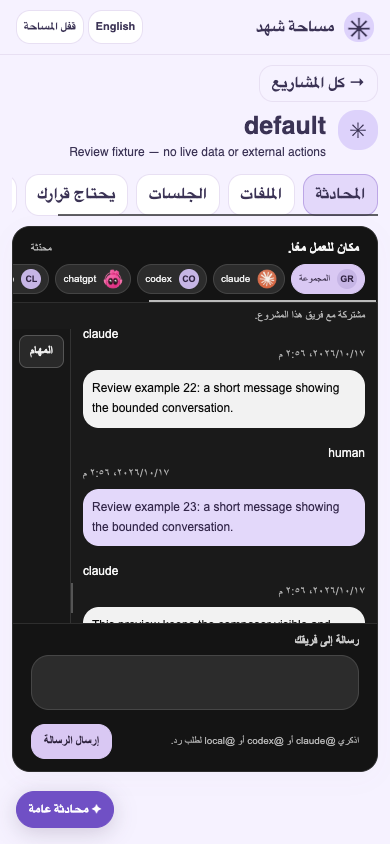
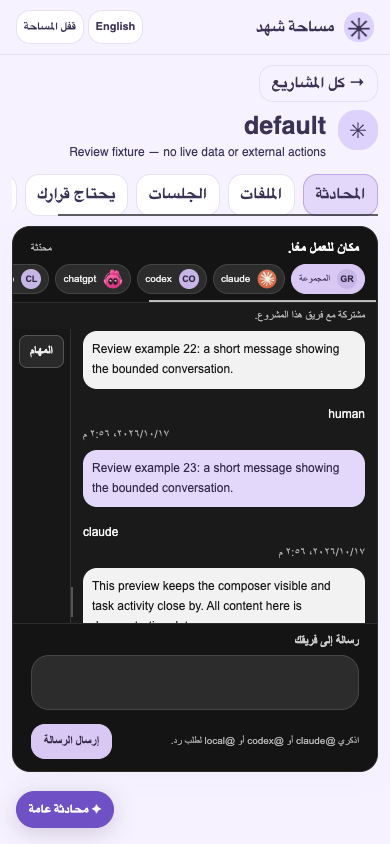
Record approved smoke checks and integrate Figma design tokens

Changed region(s): [[0.2154, 0.3697, 0.9538, 0.7393]]

diff --git a/public/hub.css b/public/hub.css
@@ -532,29 +532,37 @@ dialog textarea {
     transform: none;
   }
 }
+/* Approved Figma export: GUyxttaB4nhl8BElW81fl2 / 1:6, 2026-10-17.
+   Native CSS values from design context; no rasterized controls or temporary URLs. */
+#chatPanel {
+ --hub-surface:#1a1a1a; --hub-composer:#141414; --hub-input:#2c2c2c;
+ --hub-rail:#171717; --hub-human:#e3d8fa; --hub-human-text:#33274a;
+ --hub-agent:#f2f2f2; --hub-agent-text:#181818;
+ --hub-accent:#d9c8f3; --hub-accent-text:#302342; --hub-bubble-radius:14px;
+}
 /* Communication reference: uni work / 735:219. Scoped to the project chat. */
-#chatPanel { padding:0; overflow:hidden; background:#1a1a1a; color:#f5f5f5; border:1px solid #2e2e2e; border-radius:22px; font-family:Inter,"Noto Sans Arabic",Arial,sans-serif; }
-.conversation-heading { background:#141414; display:flex; justify-content:space-between; align-items:center; gap:16px; padding:24px 26px 12px; }
+#chatPanel { padding:0; overflow:hidden; background:var(--hub-surface); color:#f5f5f5; border:1px solid #2e2e2e; border-radius:22px; font-family:Inter,"Noto Sans Arabic",Arial,sans-serif; }
+.conversation-heading { background:var(--hub-composer); display:flex; justify-content:space-between; align-items:center; gap:16px; padding:24px 26px 12px; }
 .conversation-heading .eyebrow { color:#bcb3ce; font-size:10px; }
 .conversation-heading h2 { font:600 22px/1.4 Inter,"Noto Sans Arabic",Arial,sans-serif; margin:6px 0; }
 #connection { font-size:11px; color:#b9b9b9; white-space:nowrap; }
-.participants { display:flex; flex-wrap:wrap; gap:6px; background:#141414; padding:0 26px 20px; border-bottom:1px solid #2e2e2e; }
-.participant { display:inline-flex; align-items:center; gap:7px; padding:4px 10px 4px 5px; background:#2c2c2c; border-radius:20px; font-size:12px; }
+.participants { display:flex; flex-wrap:wrap; gap:6px; background:var(--hub-composer); padding:0 26px 20px; border-bottom:1px solid #2e2e2e; }
+.participant { display:inline-flex; align-items:center; gap:7px; padding:4px 10px 4px 5px; background:var(--hub-input); border-radius:20px; font-size:12px; }
 .participant .avatar { width:20px; height:20px; font-size:9px; }
 .chat-layout { display:grid; grid-template-columns:minmax(0,1fr) 224px; }
 .chat-stream { min-width:0; }
 #chatPanel .messages { height:440px; max-height:55vh; overflow:auto; padding:24px; scrollbar-color:#555 #1a1a1a; }
 #chatPanel .message { display:flex; gap:12px; align-items:flex-start; border:0; padding:0; margin:0 0 24px; }
 .avatar { width:32px; height:32px; flex-shrink:0; object-fit:contain; border-radius:50%; }
-.avatar-initial { display:grid; place-items:center; background:#c6b5e5; color:#302342; font-size:11px; font-weight:700; }
+.avatar-initial { display:grid; place-items:center; background:#c6b5e5; color:var(--hub-accent-text); font-size:11px; font-weight:700; }
 .message-content { width:min(360px,calc(100% - 44px)); min-width:0; }
 #chatPanel .message header { display:flex; flex-direction:column; gap:2px; font-size:12px; line-height:18px; margin-bottom:7px; }
 #chatPanel .message time { color:#aaa; font-size:11px; }
-#chatPanel .message .bubble { background:#f2f2f2; color:#0a0a0a; border-radius:16px; padding:12px 14px; margin:0; line-height:1.65; font-size:14px; white-space:pre-wrap; overflow-wrap:anywhere; }
+#chatPanel .message .bubble { background:var(--hub-agent); color:var(--hub-agent-text); border-radius:var(--hub-bubble-radius); padding:12px 14px; margin:0; line-height:1.65; font-size:14px; white-space:pre-wrap; overflow-wrap:anywhere; }
 #chatPanel .message[data-author="chatgpt"], #chatPanel .message[data-author="human"] { flex-direction:row-reverse; }
 #chatPanel .message[data-author="chatgpt"] header, #chatPanel .message[data-author="human"] header { text-align:end; }
-#chatPanel .message[data-author="chatgpt"] .bubble { background:#2c2c2c; color:#f5f5f5; }
-#chatPanel .message[data-author="human"] .bubble { background:#e3d8fa; color:#33274a; }
+#chatPanel .message[data-author="chatgpt"] .bubble { background:var(--hub-input); color:#f5f5f5; }
+#chatPanel .message[data-author="human"] .bubble { background:var(--hub-human); color:var(--hub-human-text); }
 .work-panel { border-inline-start:1px solid #303030; padding:24px 18px; min-width:0; }
 .work-panel h3 { font:600 14px/1.4 Inter,Arial,sans-serif; }
 .work-hint { color:#aaa; font-size:11px; line-height:1.6; margin:8px 0 20px; }
@@ -565,12 +573,12 @@ dialog textarea {
 .work-badge { font-size:10px; padding:4px 8px; border-radius:8px; background:#303030; }
 .work-badge[data-state="in_progress"] { background:#493d25; color:#ffdfa1; }
 .work-badge[data-state="done"] { background:#243e34; color:#bde4cf; }
-#chatPanel #chatForm { padding:18px 24px 22px; border-top:1px solid #2e2e2e; background:#141414; }
+#chatPanel #chatForm { padding:18px 24px 22px; border-top:1px solid #2e2e2e; background:var(--hub-composer); }
 #chatPanel label { font-size:12px; color:#ccc; margin-bottom:8px; }
-#chatPanel textarea { background:#2c2c2c; color:#f5f5f5; border:1px solid #464646; border-radius:18px; font-size:14px; }
+#chatPanel textarea { background:var(--hub-input); color:#f5f5f5; border:1px solid #464646; border-radius:18px; font-size:14px; }
 #chatPanel .compose-footer { margin-top:10px; }
 #chatPanel .muted { color:#b5b5b5; font-size:11px; }
-#chatPanel .primary { font-size:12px; background:#d9c8f3; color:#2a203a; border-color:#d9c8f3; }
+#chatPanel .primary { font-size:12px; background:var(--hub-accent); color:var(--hub-accent-text); border-color:#d9c8f3; }
 #answering { margin:0; padding:0 24px 12px; }
 #answering:empty { display:none; }
 #chatPanel .empty { border-color:#444; color:#bbb; font-size:13px; }
@@ -605,7 +613,7 @@ main:has(#project:not([hidden])) {max-width:1120px;padding-top:12px;padding-bott
 .conversation-heading h2 {font-size:16px;margin:0;}
 .participants {padding:0 18px 8px;flex-wrap:nowrap;overflow-x:auto;flex-shrink:0;}
 .participant {color:#eee;border-color:#444;font-weight:500;white-space:nowrap;}
-.participant[aria-pressed=true] {background:#d9c8f3;color:#2a203a;border-color:#d9c8f3;}
+.participant[aria-pressed=true] {background:var(--hub-accent);color:var(--hub-accent-text);border-color:#d9c8f3;}
 #scopeNote {margin:0;padding:6px 18px;line-height:1.4;}
 .chat-layout {flex:1;min-height:0;grid-template-columns:minmax(0,1fr) 210px;overflow:hidden;}
 .chat-layout.collapsed {grid-template-columns:minmax(0,1fr) 70px;}
@@ -614,7 +622,7 @@ main:has(#project:not([hidden])) {max-width:1120px;padding-top:12px;padding-bott
 #chatPanel .message {margin-bottom:16px;}
 #chatPanel.compact .message {margin-bottom:8px;}
 #chatPanel.compact .bubble {padding:7px 11px;}
-.work-panel {padding:10px;overflow:auto;min-height:0;background:#171717;}
+.work-panel {padding:10px;overflow:auto;min-height:0;background:var(--hub-rail);}
 .work-panel button,.work-panel select {width:100%;padding:6px;background:#292929;color:#eee;border:1px solid #555;border-radius:8px;font-size:12px;}
 .work-panel label {font-size:11px;margin-top:10px;}
 .work-panel input[type=checkbox] {width:auto;}
@@ -624,7 +632,7 @@ main:has(#project:not([hidden])) {max-width:1120px;padding-top:12px;padding-bott
 #chatPanel textarea {height:55px;max-height:100px;min-height:40px;resize:none;padding:8px 12px;}
 #chatPanel .compose-footer {margin-top:6px;flex-direction:row;align-items:center;}
 #chatPanel .compose-footer button {padding:7px 12px;}
-#newMessages {position:absolute;bottom:8px;left:50%;transform:translateX(-50%);font-size:12px;background:#d9c8f3;color:#302342;padding:5px 12px;}
+#newMessages {position:absolute;bottom:8px;left:50%;transform:translateX(-50%);font-size:12px;background:var(--hub-accent);color:var(--hub-accent-text);padding:5px 12px;}
 #generalChat {position:fixed;bottom:16px;left:16px;z-index:4;border-radius:30px;box-shadow:0 5px 22px #34224a33;}
 select {font:inherit;max-width:100%;padding:10px;border-radius:10px;}
 #generalDialog select {width:100%;margin-bottom:12px;}

diff --git a/public/index.html b/public/index.html
@@ -6,7 +6,7 @@
     <meta name="color-scheme" content="light" />
     <meta name="referrer" content="no-referrer" />
     <title>Shahed’s Hub</title>
-    <link rel="stylesheet" href="/hub.css?v=e7753a9398b554ea" />
+    <link rel="stylesheet" href="/hub.css?v=216c76c5de4f613b" />
     <script src="/hub.js?v=b5255f628d303479" defer></script>
   </head>
   <body>

diff --git a/docs/HUB_OVERHAUL.md b/docs/HUB_OVERHAUL.md
@@ -15,7 +15,7 @@ Based on `81cc63247c070d737bf0bb63b3553f2aef9b6129`, including the remember-devi
 
 ## Deliberate integration gaps — do not call these complete
 
-Private messages default to **storage only**. An explicit checkbox can request a private text reply when the existing API-mode provider is configured. The API path supplies only that project/agent DM history, bypasses team context, memories, activity, routing and notifications, and never falls back to another provider. Status persists as working/completed/failed/interrupted. Mocked Anthropic end-to-end proof passes; no live API calls were made. A Claude-only experimental subscription adapter is implemented behind the off-by-default HUB_PRIVATE_CLAUDE_CLI flag, with tools/customizations disabled and no fallback; mocked HTTP-to-CLI-to-DM tests pass. Codex subscription replies remain unavailable because read-only does not prevent unrelated file reads. Neither adapter has been live-tested. No native Claude/Codex session is created or awakened. Enabling new credentials or a paid API mode is a separate approval, not part of this implementation. The existing shared MCP credential does not provide a strong per-agent identity boundary; adding connector DM reads needs a separate identity design.
+Private messages default to **storage only**. An explicit checkbox can request a private text reply when the existing API-mode provider is configured. The API path supplies only that project/agent DM history, bypasses team context, memories, activity, routing and notifications, and never falls back to another provider. Status persists as working/completed/failed/interrupted. Mocked Anthropic end-to-end proof passes; no live API calls were made. A Claude-only experimental subscription adapter is implemented behind the off-by-default HUB_PRIVATE_CLAUDE_CLI flag, with tools/customizations disabled and no fallback; mocked HTTP-to-CLI-to-DM tests pass. Codex subscription replies remain unavailable because read-only does not prevent unrelated file reads. One subsequently approved Claude smoke request failed without a reply; no second live message was sent. See evidence/approved-actions.md. No native Claude/Codex session is created or awakened. Enabling new credentials or a paid API mode is a separate approval, not part of this implementation. The existing shared MCP credential does not provide a strong per-agent identity boundary; adding connector DM reads needs a separate identity design.
 
 Native application chats are not automatically imported. The sessions view lists explicitly registered Bridge sessions only. Its registration API requires source/title/id; optional URLs are checked for supported syntax, not remotely proven by the server. The local preview contains the actual verified current Codex task URL and labels its status as a snapshot. No fabricated percentages or implied live presence.
 
@@ -34,7 +34,7 @@ General classification is a conservative local heuristic, not an AI classifier. 
 
 ## Design references and licensing
 
-Separate review design: https://www.figma.com/design/GUyxttaB4nhl8BElW81fl2 (desktop 1:2, mobile 1:26). Existing study file `Ak5doJUqcOB4qSC8KNb7JO` was read only; its Communication frame informed the dark surface, bubbles and fixed header/scroll regions. Existing local avatar assets are reused. No new Figma assets were exported into code; export requires the requested separate approval.
+Separate review design: https://www.figma.com/design/GUyxttaB4nhl8BElW81fl2 (desktop 1:2, mobile 1:26). Existing study file `Ak5doJUqcOB4qSC8KNb7JO` was read only; its Communication frame informed the dark surface, bubbles and fixed header/scroll regions. Existing local avatar assets are reused. Figma export was approved at 12:30 UTC. Desktop/mobile renders are in evidence/figma-approved; the file contains no independent image/SVG assets. Its design values are integrated as scoped CSS tokens, with renders kept as reference evidence.
 
 https://github.com/LitenApe/Kitchen is an abandoned alpha React 17/Framer Motion 4/CRA 4 sandbox, with no license file or package license established from the inspected root/package metadata. No source copied or dependencies adopted.
 
@@ -54,7 +54,7 @@ Do not merge or deploy this draft before Shahed reviews scope and the integratio
 - [x] Experimental Claude subscription text adapter implemented, default off and mock-tested; not live-verified.
 - [ ] Codex subscription private reply tool isolation and native session creation: see the precise transport/security findings in HUB_NATIVE_INTEGRATION_ASSESSMENT.md.
 - [ ] Native session discovery: supported CLI/protocol entry points found, but no scoped Bridge client connected; explicit registration remains required.
-- [ ] Figma exports: awaiting the separately required approval; existing assets continue to work.
+- [x] Approved Figma renders exported and native design tokens integrated; no standalone image/SVG assets exist in the new design.
 - [ ] Merge/deploy: awaiting scope review; draft remains unmerged.
 
 Detailed bounded assessment, supported interfaces, minimal next decisions and Kitchen reuse audit: [HUB_NATIVE_INTEGRATION_ASSESSMENT.md](HUB_NATIVE_INTEGRATION_ASSESSMENT.md).

diff --git a/evidence/approved-actions.md b/evidence/approved-actions.md
@@ -1,0 +1,23 @@
+# Approved actions, 17 October 2026
+
+Approval relayed at 12:30 UTC: one exact Claude subscription prompt `Reply with OK`, read-only Codex names/IDs limited to `/Users/shahed/VG-hoster`, and exports from the separate Figma design.
+
+## Claude smoke test
+
+One logical request was submitted through `sendDirect` in a fresh isolated database. The default-off flag was enabled only in that process, with API credentials/endpoints absent and a Claude-only no-fallback adapter. A durable exclusive marker prevents accidental re-execution. Result: **failed, no reply**. The human test message is the only DM record. Group messages/search matches, activity delta and memory delta are all zero (see approved-smoke-result.json).
+
+The adapter intentionally suppresses raw CLI errors; consequently this run did not retain evidence distinguishing authentication, option compatibility or provider failure. Provider receipt and subscription billing mode are **not verified**. No retry or second live message was sent, no credential was opened, and no production flag was enabled. A further live diagnostic attempt would require renewed approval; do not call the live integration successful.
+
+## Codex discovery
+
+Supported `app-server daemon version` reports a running daemon 0.163.0-alpha.10.2 and CLI 0.163.0. Proxy initialization using the CLI's default socket and then the exact returned socket each timed out with zero response bytes. Only `initialize` was sent; the code sends its scoped `thread/list` request only after a successful initialization. Listing parameters are exact cwd `/Users/shahed/VG-hoster`, `useStateDbOnly:true`, explicit source kinds and pagination. Any returned row with a different cwd would stop the operation. Only ID and name are retained; no preview, message or transcript data is written.
+
+A final version-matched proxy attempt uses the daemon executable path returned by its supported version command. Its result is appended below. No service is started/restarted, no access configured and no private session files read.
+
+## Figma export and integration
+
+Approved file: https://www.figma.com/design/GUyxttaB4nhl8BElW81fl2 . Downloaded desktop node 1:2 (1120×800) and mobile node 1:26 (390×844) into `evidence/figma-approved/`. Both exports reported zero raw images and zero SVG assets. The design consists of editable text and layout primitives, so there are no independent icon/image assets to transplant.
+
+Node 1:6's high-fidelity design context was translated into scoped native CSS tokens: surface, composer, input, task rail, human/agent bubble colors, accent colors and 14px bubble radius. Interactive DOM controls remain interactive. The exported PNGs are review references, never raster replacements for UI. Existing agent avatars are retained. No temporary download URL is embedded in runtime code; the original study file was not edited.
+
+Final version-matched Codex proxy result: **blocked — initialization timed out after 10 seconds with zero response bytes**. No scoped list could be sent and no names/IDs were retrieved. This is a transport-handshake blocker, not proof of missing sessions or an authentication failure. Further work needs protocol/daemon diagnostics; no daemon restart or access change was attempted.

diff --git a/docs/HUB_NATIVE_INTEGRATION_ASSESSMENT.md b/docs/HUB_NATIVE_INTEGRATION_ASSESSMENT.md
@@ -39,3 +39,7 @@ These are concrete supported entry points, not a claim that no native integratio
 - [dqnamo Kitchen](https://www.dqnamo.com/kitchen): inspected named studies include Tactile Button, Dynamic Button, Scroll Fade List and Hold to Confirm. No reuse license was established. **Zero components, code or assets copied.**
 - Actual Hub implementation uses independently written native buttons, `<dialog>`, `<details>`, CSS overflow/viewport sizing, state labels and reduced-motion handling. Compact controls and readable overflow were general design references. It does **not** implement Kitchen's compressible tactile face, animated width morph, scroll-fade mask or hold-to-confirm interaction. Existing 150ms project-card hover motion predates this overhaul. Thus “Kitchen-inspired” must not be presented as component reuse or as new bespoke animation work.
 - The separate Figma file remains the visual review deliverable. No Figma export was performed; approval remains pending.
+
+## Subsequent approved checks
+
+The three checks were approved at 12:30 UTC. See [actual results](../evidence/approved-actions.md). The earlier assessment above describes the pre-approval state; the one live Claude attempt failed and no retry was sent. Figma export is now completed, with native CSS integration rather than rasterized controls.
